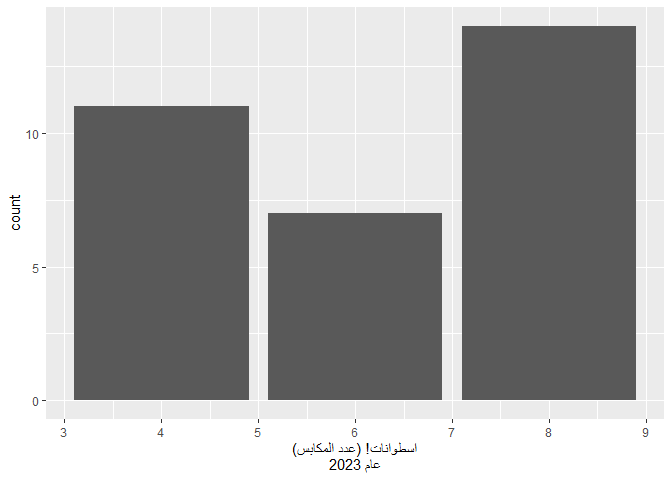
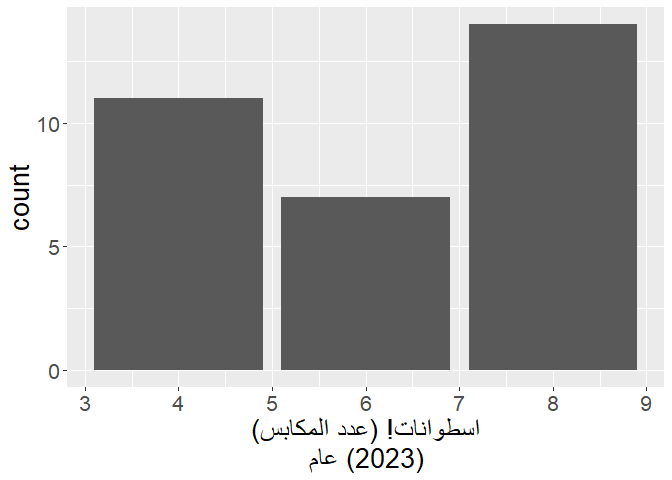
Fix examples in Readme file

diff --git a/README.md b/README.md
@@ -43,6 +43,7 @@ You can also use it in plots, for example:
 ``` r
 library(ggplot2)
 #> Warning: package 'ggplot2' was built under R version 4.2.2
+theme_update(text = element_text(size = 20))
 ggplot(mtcars, aes(cyl)) +
   geom_bar() +
   xlab("اسطوانات!")
@@ -70,18 +71,37 @@ Now the exclamation mark is on the left-hand side, like it should.
 
 Additionally, sometimes you wish to break up lines within a plot. the
 easiest way to do it is by pasting `\n`, but this results yet again with
-a problem in the location of non-RTL characters. Notice how the closing
-parantheses are on the right side, shile they sould be closing the
-remark and be placed on the left side.
+a problem in the location of non-RTL characters. Notice how the
+parentheses on the top `xlab()` row are correctly placed on the left
+side, but the parantheses on the bottom row are wrongly placed on the
+right side..
 
 ``` r
 ggplot(mtcars, aes(cyl)) +
   geom_bar() +
-  xlab(paste0("اسطوانات! (عدد المكابس)", "\n", "عام 2023"))
+  xlab(paste0("اسطوانات! (عدد المكابس)", "\n", "عام (2023)"))
 ```
 
 <img src="man/figures/README-plot_3-1.png" width="50%" />
 
 ``` r
-# `xlab` says "cylinders! (The year of 2023)" in Arabic.
+# `xlab()` says in Arabic:
+# "cylinders! (The number of pistons)"
+# "Year (2023)"
+```
+
+This can be easily solved with `str_rtl()` and `multiline = TRUE`:
+
+``` r
+ggplot(mtcars, aes(cyl)) +
+  geom_bar() +
+  xlab(str_rtl("اسطوانات! (عدد المكابس)", "عام (2023)", multiline = TRUE))
+```
+
+<img src="man/figures/README-plot_4-1.png" width="50%" />
+
+``` r
+# `xlab()` says in Arabic:
+# "cylinders! (The number of pistons)"
+# "Year (2023)"
 ```
